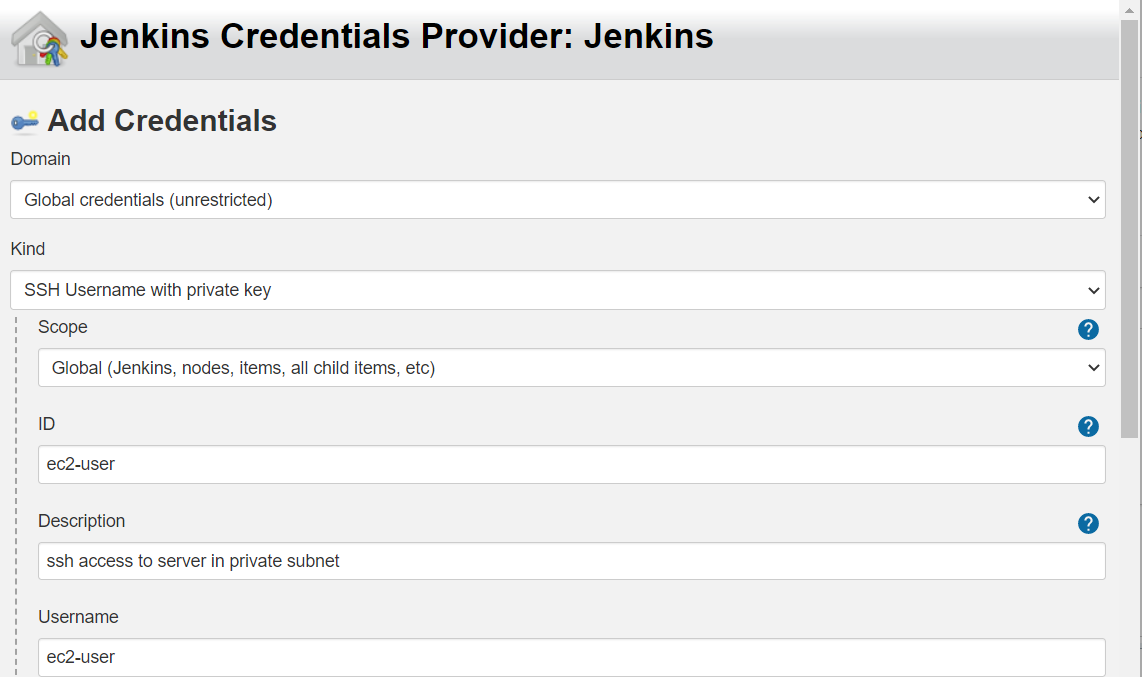
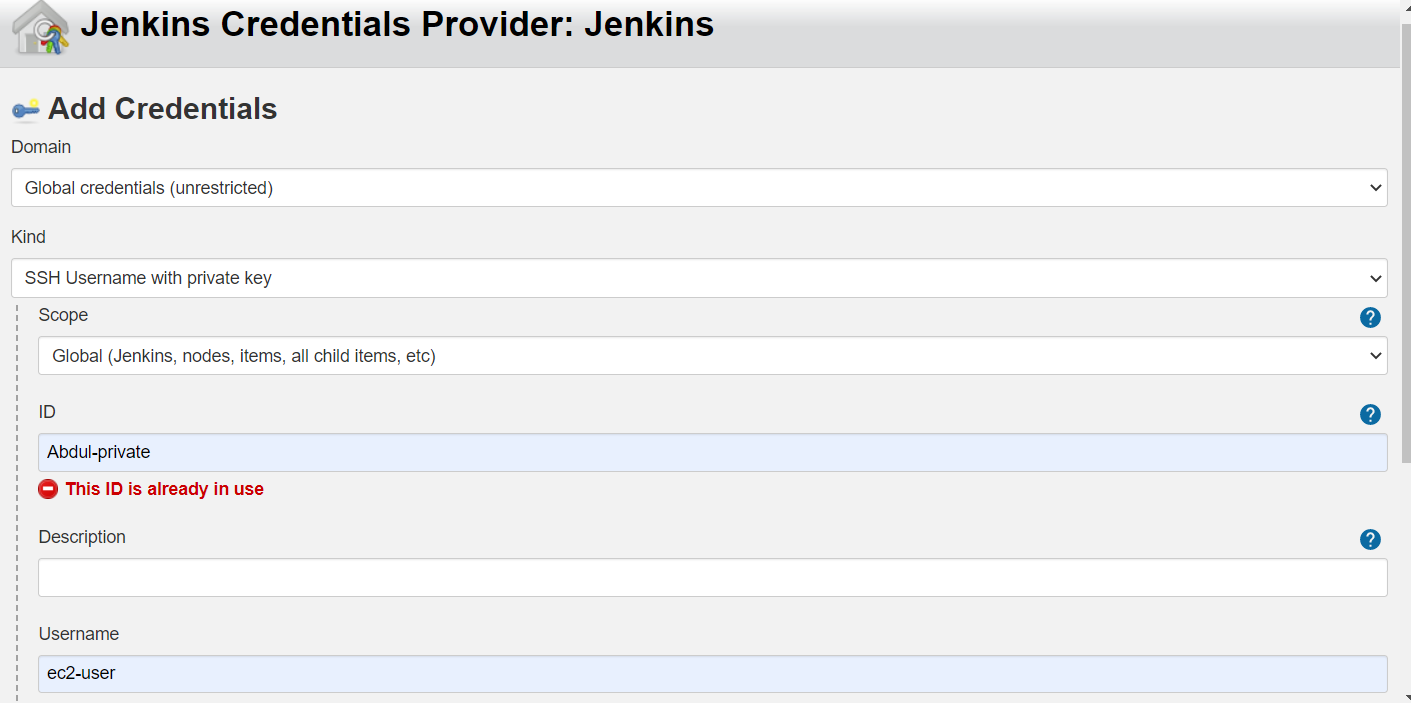
editing imgs

diff --git a/README.md b/README.md
@@ -28,6 +28,9 @@
 <img src = "imgs/env.png">
 
 
+> 5. our Pipeline will build and push dokcer images to a repository. inorder to do this we must provide jenkis creditianls to be able to do this in a  secure manner. We also must allow our jenkins 
+
+<img src = "imgs/doecker-hub-privateec2.png>
 
 
 
